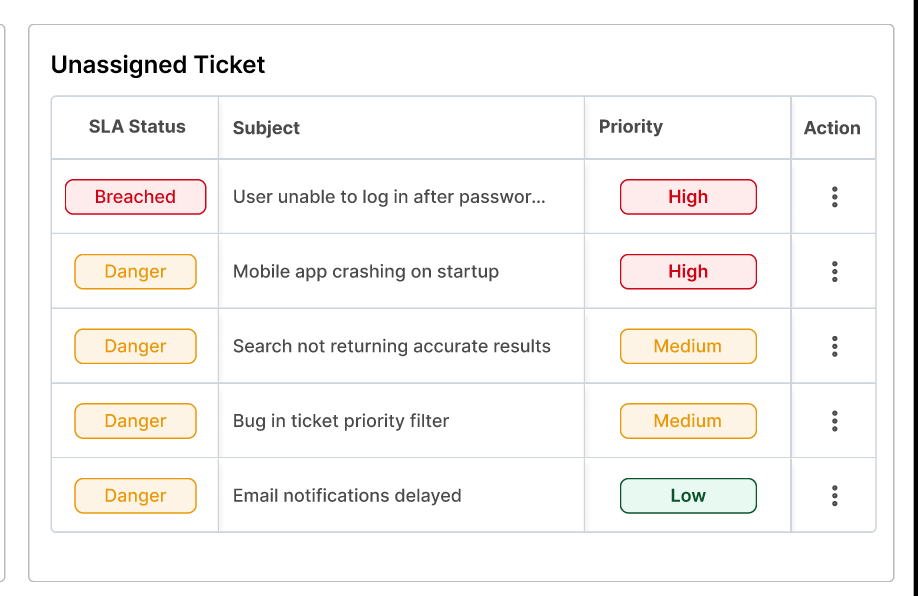
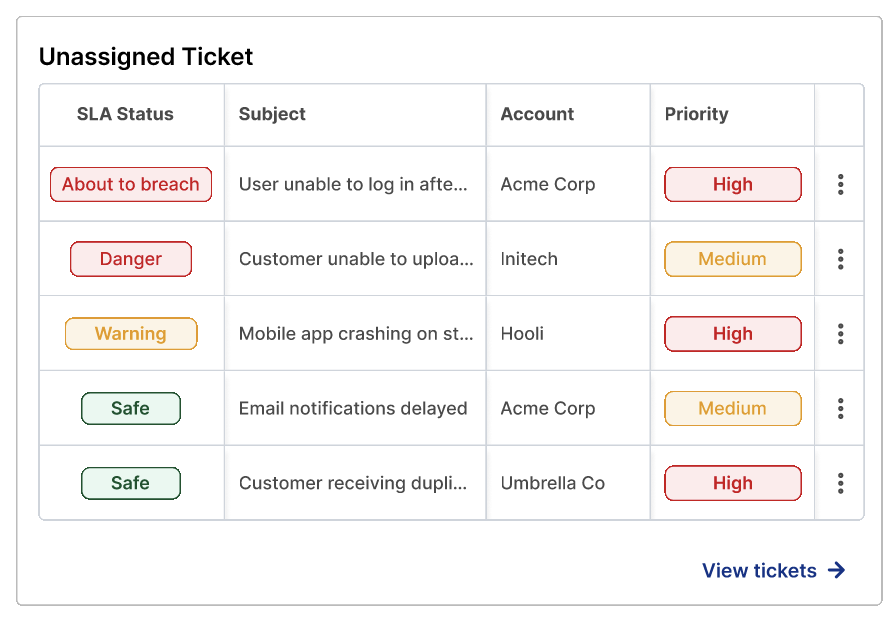
WIP: unified 1-minute overview, hover overlay, image updates

Changed region(s): [[0.0, 0.0, 1.0, 1.0], [0.5436, 0.3926, 0.6342, 0.453]]

diff --git a/src/developer/components/WorkPage.jsx b/src/developer/components/WorkPage.jsx
@@ -57,7 +57,7 @@ function ProjectTile({ project, onOpen }) {
       type="button"
       onClick={(e) => onOpen(e.currentTarget.getBoundingClientRect())}
       data-cursor="View case study"
-      className="liquid-glass group flex h-full w-full cursor-pointer flex-col rounded-2xl p-2.5 text-left transition-transform duration-300 ease-out hover:scale-[1.03] sm:p-3"
+      className="liquid-glass group relative flex h-full w-full cursor-pointer flex-col rounded-2xl p-2.5 text-left transition-transform duration-300 ease-out hover:scale-[1.03] sm:p-3"
     >
       <div
         className={`relative overflow-hidden rounded-xl ${project.video ? "bg-white" : "bg-white/5"}`}
@@ -97,6 +97,41 @@ function ProjectTile({ project, onOpen }) {
             <Tag key={tag}>{tag}</Tag>
           ))}
         </div>
+      </div>
+
+      {/* On hover (devices that can hover): title, badges and the 1-minute overview cover the card. */}
+      <div
+        aria-hidden
+        className="pointer-events-none absolute inset-0 flex flex-col gap-4 overflow-hidden rounded-2xl bg-black/90 p-5 opacity-0 backdrop-blur-md transition-opacity duration-300 group-hover:opacity-100 motion-reduce:transition-none sm:p-6"
+      >
+        <h3
+          className="text-lg font-extrabold leading-snug text-foreground sm:text-xl"
+          style={{ fontFamily: "'Plus Jakarta Sans', ui-sans-serif, system-ui, sans-serif" }}
+        >
+          {project.title}
+        </h3>
+        <div className="flex flex-wrap gap-2">
+          {project.tags.map((tag) => (
+            <Tag key={tag}>{tag}</Tag>
+          ))}
+        </div>
+        {project.caseStudy?.overview && (
+          <div className="min-h-0 flex-1 overflow-hidden [mask-image:linear-gradient(to_bottom,black_80%,transparent)]">
+            <p className="mb-3 text-[11px] font-semibold uppercase tracking-[0.18em] text-muted-foreground">
+              1-minute overview
+            </p>
+            <dl className="flex flex-col gap-2.5">
+              {project.caseStudy.overview.filter((row) => !row.href).map((row) => (
+                <div key={row.label} className="grid grid-cols-[5.5rem_1fr] gap-x-3">
+                  <dt className="pt-0.5 text-[10px] font-semibold uppercase tracking-wide text-muted-foreground">
+                    {row.label}
+                  </dt>
+                  <dd className="line-clamp-2 text-xs leading-relaxed text-foreground/85">{row.text}</dd>
+                </div>
+              ))}
+            </dl>
+          </div>
+        )}
       </div>
     </button>
   );

diff --git a/src/developer/caseStudyRecruitment.js b/src/developer/caseStudyRecruitment.js
@@ -11,20 +11,32 @@ export const recruitmentCaseStudy = {
   story: "This case study follows the problem as it appeared in day-to-day work, the conversations that changed my understanding, and the decisions that shaped the final product. It focuses on what was learned and why the design evolved—not just on the screens that were produced.",
   overview: [
     {
+      label: "Summary",
+      text: "One place to run hiring, with AI that helps and people who decide."
+    },
+    {
+      label: "Company",
+      text: "Keross R&D"
+    },
+    {
+      label: "Project type",
+      text: "HR Tech – Recruitment & Onboarding"
+    },
+    {
       label: "Role",
-      text: "I worked as both the designer and front-end developer on Keross. I wrote the plan, mapped the screens, designed the experience in Figma with AI to move faster, and built the working product. The project took about two months, with around five days spent designing and testing with AI."
+      text: "UI/UX Designer & Front-end Developer"
     },
     {
-      label: "Product",
-      text: "Keross brings the hiring journey together: HR teams can post jobs, review candidates, run interviews and welcome new hires. It has three connected portals for HR, interviewers and candidates."
+      label: "Timeline",
+      text: "About 2 Months — around 5 days designing and testing with AI"
     },
     {
-      label: "Problem",
-      text: "The starting problem was that hiring information lived across documents, spreadsheets and email. I wanted to create one place for the process, using AI to help with reading and writing while keeping every hiring decision with people."
+      label: "Platform",
+      text: "Web Application — portals for HR, interviewers and candidates"
     },
     {
-      label: "Outcome",
-      text: "The product is currently in the development phase. I have tested the prototype with others, but it has not launched yet, so there are no measured results and no invented percentages."
+      label: "Status",
+      text: "Prototype, currently in development"
     },
     {
       label: "Live demo",

diff --git a/src/developer/caseStudy.js b/src/developer/caseStudy.js
@@ -15,7 +15,7 @@ export const ticketDashboardCaseStudy = {
     },
     {
       label: "Company",
-      text: "Keross"
+      text: "Keross R&D"
     },
     {
       label: "Project type",
@@ -32,6 +32,10 @@ export const ticketDashboardCaseStudy = {
     {
       label: "Platform",
       text: "Web Application"
+    },
+    {
+      label: "Status",
+      text: "In use by the development team"
     },
     {
       label: "Team",
